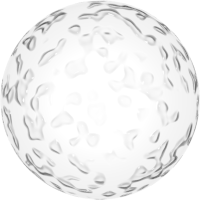
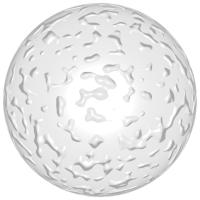
Added water drops examples

diff --git a/src/water-drops.js b/src/water-drops.js
@@ -22,7 +22,7 @@ var waterDrops = tslFn( ( params ) => {
 
 	var eps = 0.001;
 
-	var position = positionLocal.mul( exp( params.scale.div( 2 ).add( 2 ) ) ).toVar( ),
+	var position = positionLocal.mul( exp( params.scale.div( 1 ).add( 1 ) ) ).toVar( ),
 		normal = normalLocal.normalize().toVar(),
 		tangent = tangentLocal.normalize().mul( eps ).toVar(),
 		bitangent = cross( normal, tangent ).normalize().mul( eps ).toVar();
@@ -48,7 +48,7 @@ waterDrops.defaults = {
 	$name: 'Water Drops',
 	$normalNode: true,
 
-	scale: 1,
+	scale: 1.4,
 	density: 0.5,
 	bump: 0.6,
 

diff --git a/docs/water-drops.md b/docs/water-drops.md
@@ -14,15 +14,15 @@ snapshot to open it online.
 
 <p class="gallery">
 
-	<a class="style-block nocaption" href="../online/water-drops.html?">
+	<a class="style-block nocaption" href="../online/water-drops.html?scale=1&density=0.5&bump=0.6">
 		<img src="images/water-drops-1.png">
 	</a>
 
-	<a class="style-block nocaption" href="../online/water-drops.html?">
+	<a class="style-block nocaption" href="../online/water-drops.html?scale=0&density=0.82&bump=0.6&seed=4223">
 		<img src="images/water-drops-2.png">
 	</a>
 
-	<a class="style-block nocaption" href="../online/water-drops.html?">
+	<a class="style-block nocaption" href="../online/water-drops.html?scale=3.68&density=0.77&bump=0.29&seed=4223">
 		<img src="images/water-drops-3.png">
 	</a>
 
@@ -35,7 +35,7 @@ snapshot to open it online.
 import { waterDrops } from "tsl-textures/water-drops.js";
 
 model.material.normalNode = waterDrops ( {
-	scale: 1,
+	scale: 1.4,
 	density: 0.5,
 	bump: 0.6,
 	seed: 0
